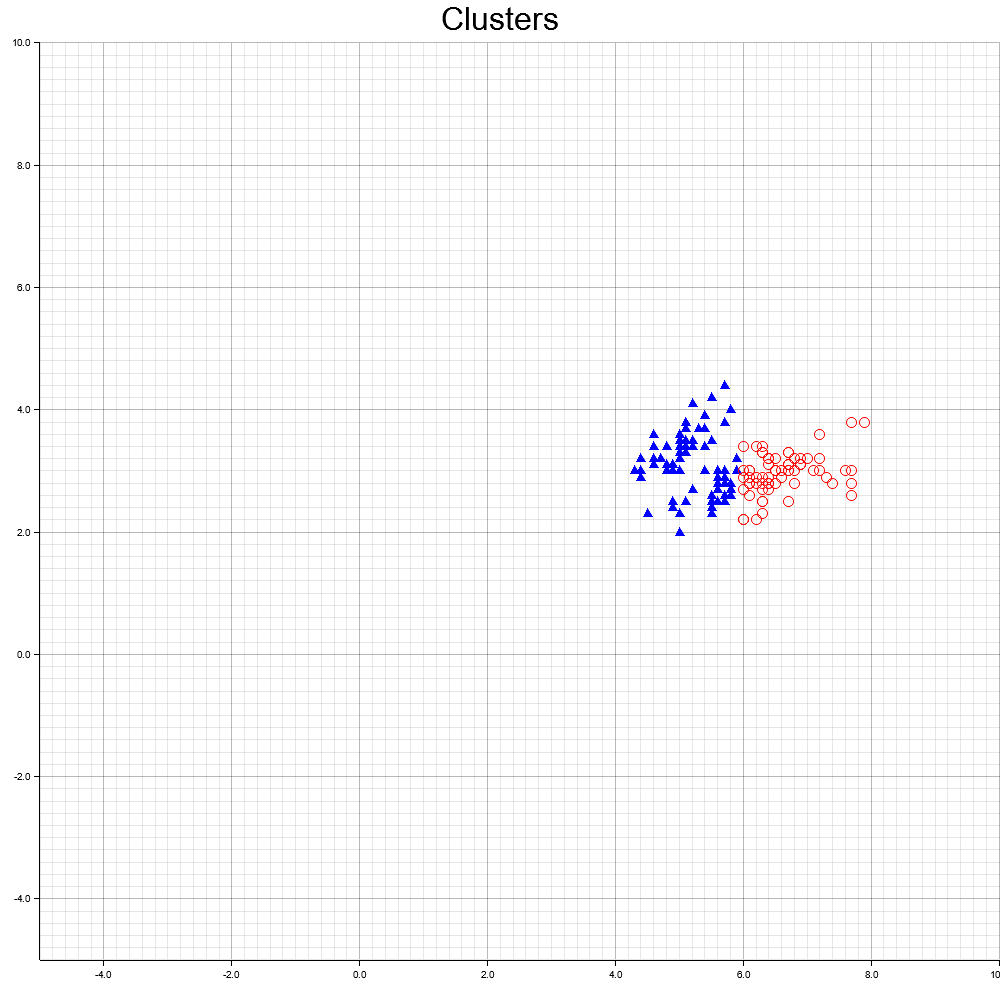
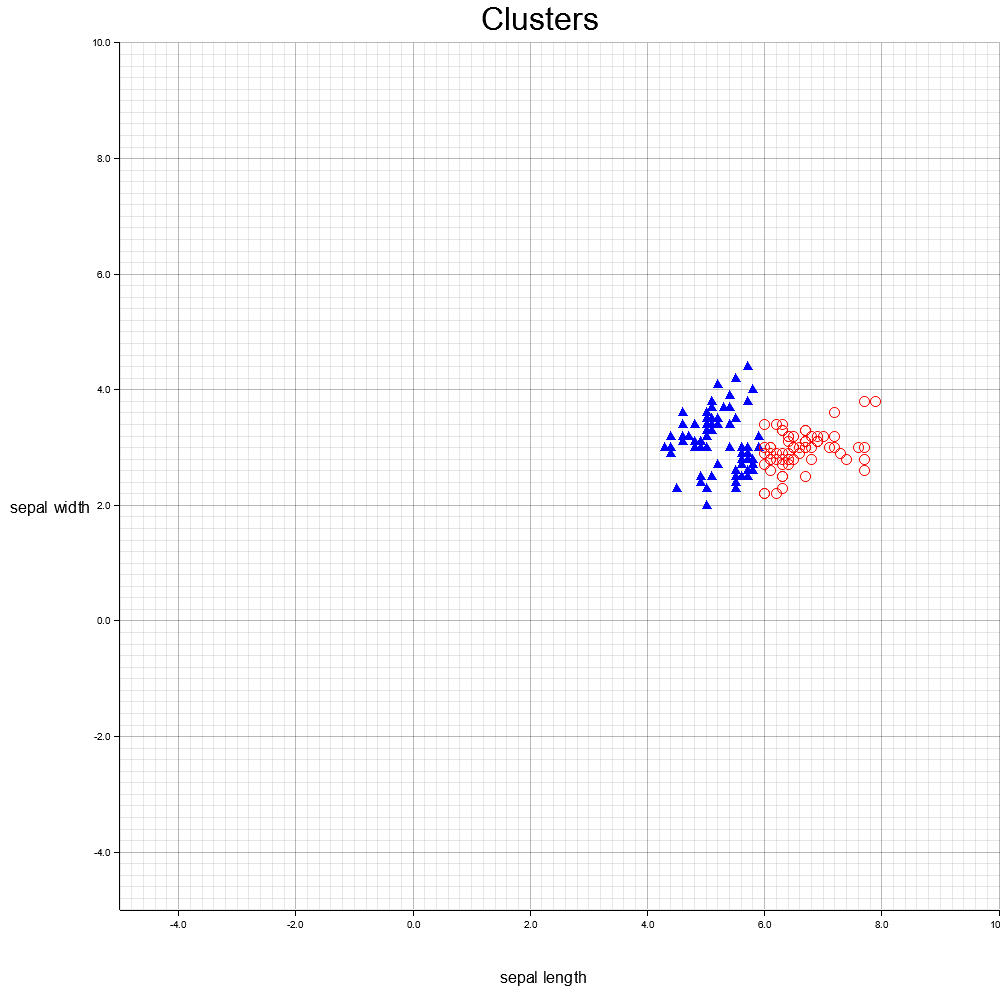
improved chart style

Changed region(s): [[0.0, 0.031, 1.0, 0.992], [0.434, 0.0, 0.589, 0.031]]

diff --git a/ml-rust/clustering/src/main.rs b/ml-rust/clustering/src/main.rs
@@ -39,11 +39,17 @@ pub fn draw_clusters(clusters_ds: Dataset<f64, usize, Ix1>, feature_names: &Vec<
     let mut ctx = ChartBuilder::on(&root_area)
         .set_label_area_size(LabelAreaPosition::Left, 40)
         .set_label_area_size(LabelAreaPosition::Bottom, 40)
+        .margin_bottom(50)
+        .margin_left(80)
         .caption("Clusters", ("sans-serif", 40))
         .build_cartesian_2d(-5f64..10f64, -5f64..10f64)
         .unwrap();
 
-    ctx.configure_mesh().draw().unwrap();
+    ctx.configure_mesh()
+        // .x_labels(0)
+        // .y_labels(0)
+        // .label_style(("sans-serif", 20))
+        .draw().unwrap();
 
     ctx.draw_series(
         c1.iter().map(|point| TriangleMarker::new(*point, 5, &BLUE)),
@@ -52,6 +58,9 @@ pub fn draw_clusters(clusters_ds: Dataset<f64, usize, Ix1>, feature_names: &Vec<
 
     ctx.draw_series(c2.iter().map(|point| Circle::new(*point, 5, &RED)))
         .unwrap();
+
+    root_area.draw_text(&feature_names[0],  &("sans-serif", 20).into_text_style(&root_area), (500, 970))?;
+    root_area.draw_text(&feature_names[1],  &("sans-serif", 20).into_text_style(&root_area), (10, 500))?;
     // ctx.draw_series(PointSeries::<_,_,Circle<_,_>,_>::new(c1, c1_size, &BLUE))
     //     .unwrap();
 
@@ -65,10 +74,11 @@ fn main() {
     println!("Hello, world!");
 
     let ds = load_iris_dataset();
-    
+    let feature_names = ds.feature_names();
     // let's reduce to two dimensions
-    let ds_small = DatasetBase::from(ds.records.slice(s![..,0..2])).to_owned();
-    let feature_names = ds_small.feature_names();
+    let ds_small = DatasetBase::from(ds.records.slice(s![..,0..2]))
+        .with_feature_names(feature_names[0..2].to_vec())
+        .to_owned();
     // Our random number generator, seeded for reproducibility
     let seed = 42;
     let mut rng = thread_rng();
@@ -94,7 +104,7 @@ fn main() {
 
 
     let clusters = model.predict(ds_small);
-    draw_clusters(clusters, &feature_names);
+    let _ = draw_clusters(clusters, &feature_names[0..2].to_vec());
     
     
 }
